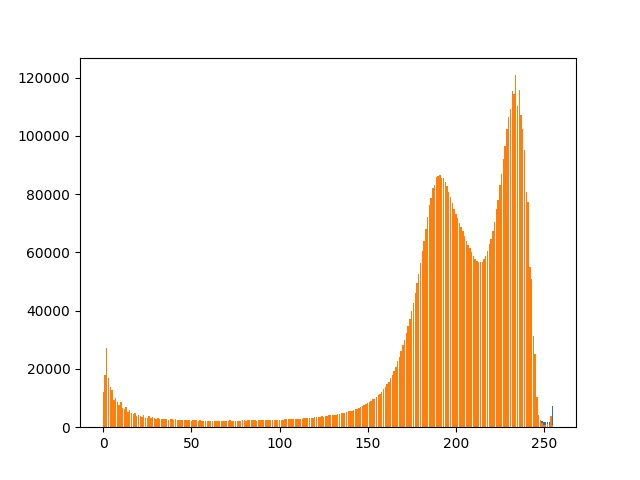
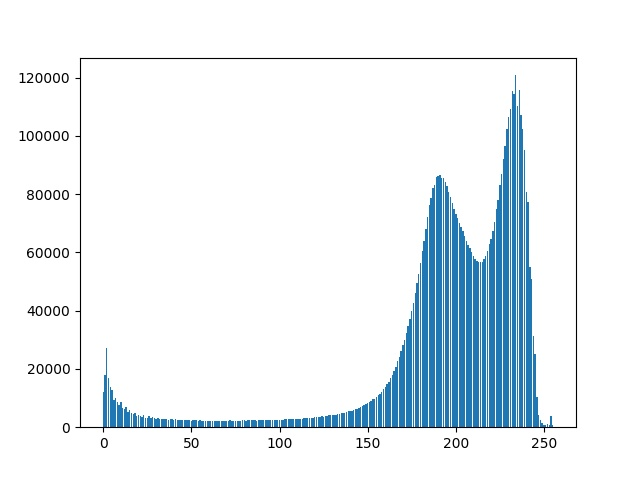
X-Y Cut close issue

Changed region(s): [[0.1562, 0.1562, 0.875, 0.9062]]

diff --git a/zLab4.py b/zLab4.py
@@ -25,6 +25,7 @@ def intensityHistogram(source,destination):
 	a=numpy.transpose(hist) 
 	plt.bar([i for i in range(256)],hist)
 	plt.savefig(destination);
+	plt.close();
 
 #task-3 Functions
 
@@ -69,6 +70,8 @@ def X_Y_cut(source, destination, lower_cross, upper_cross):
 		index2 = index2+1;
 
 	sub_images(point, im, destination);
+	plt.close();
+
 
 
 def sub_images(point, im, destination):
